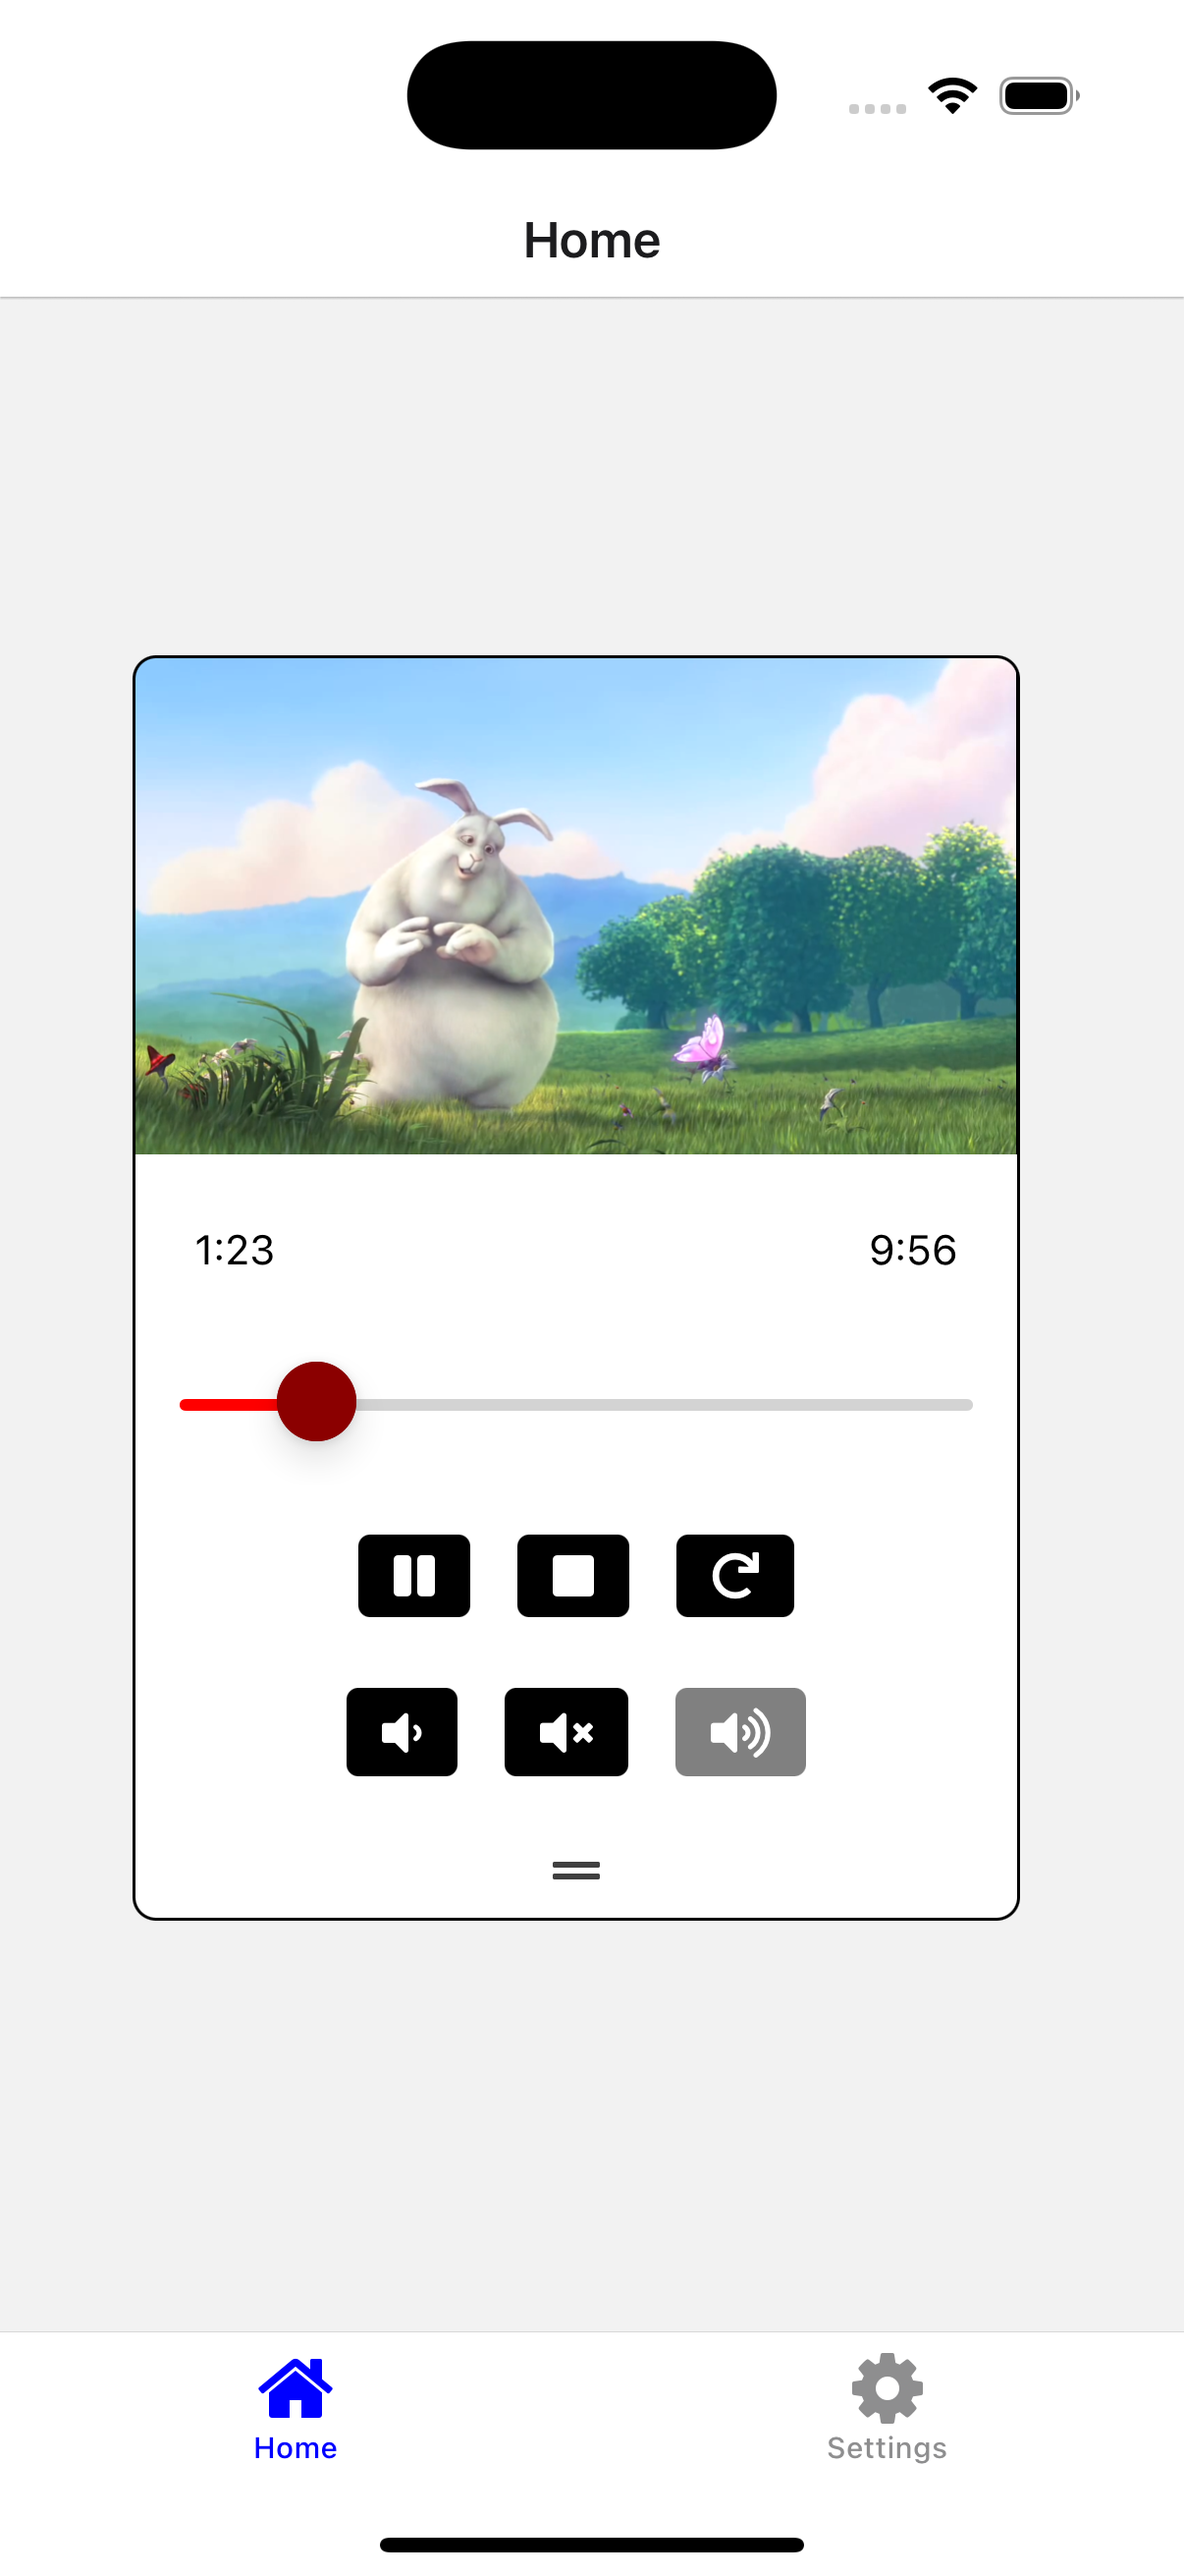
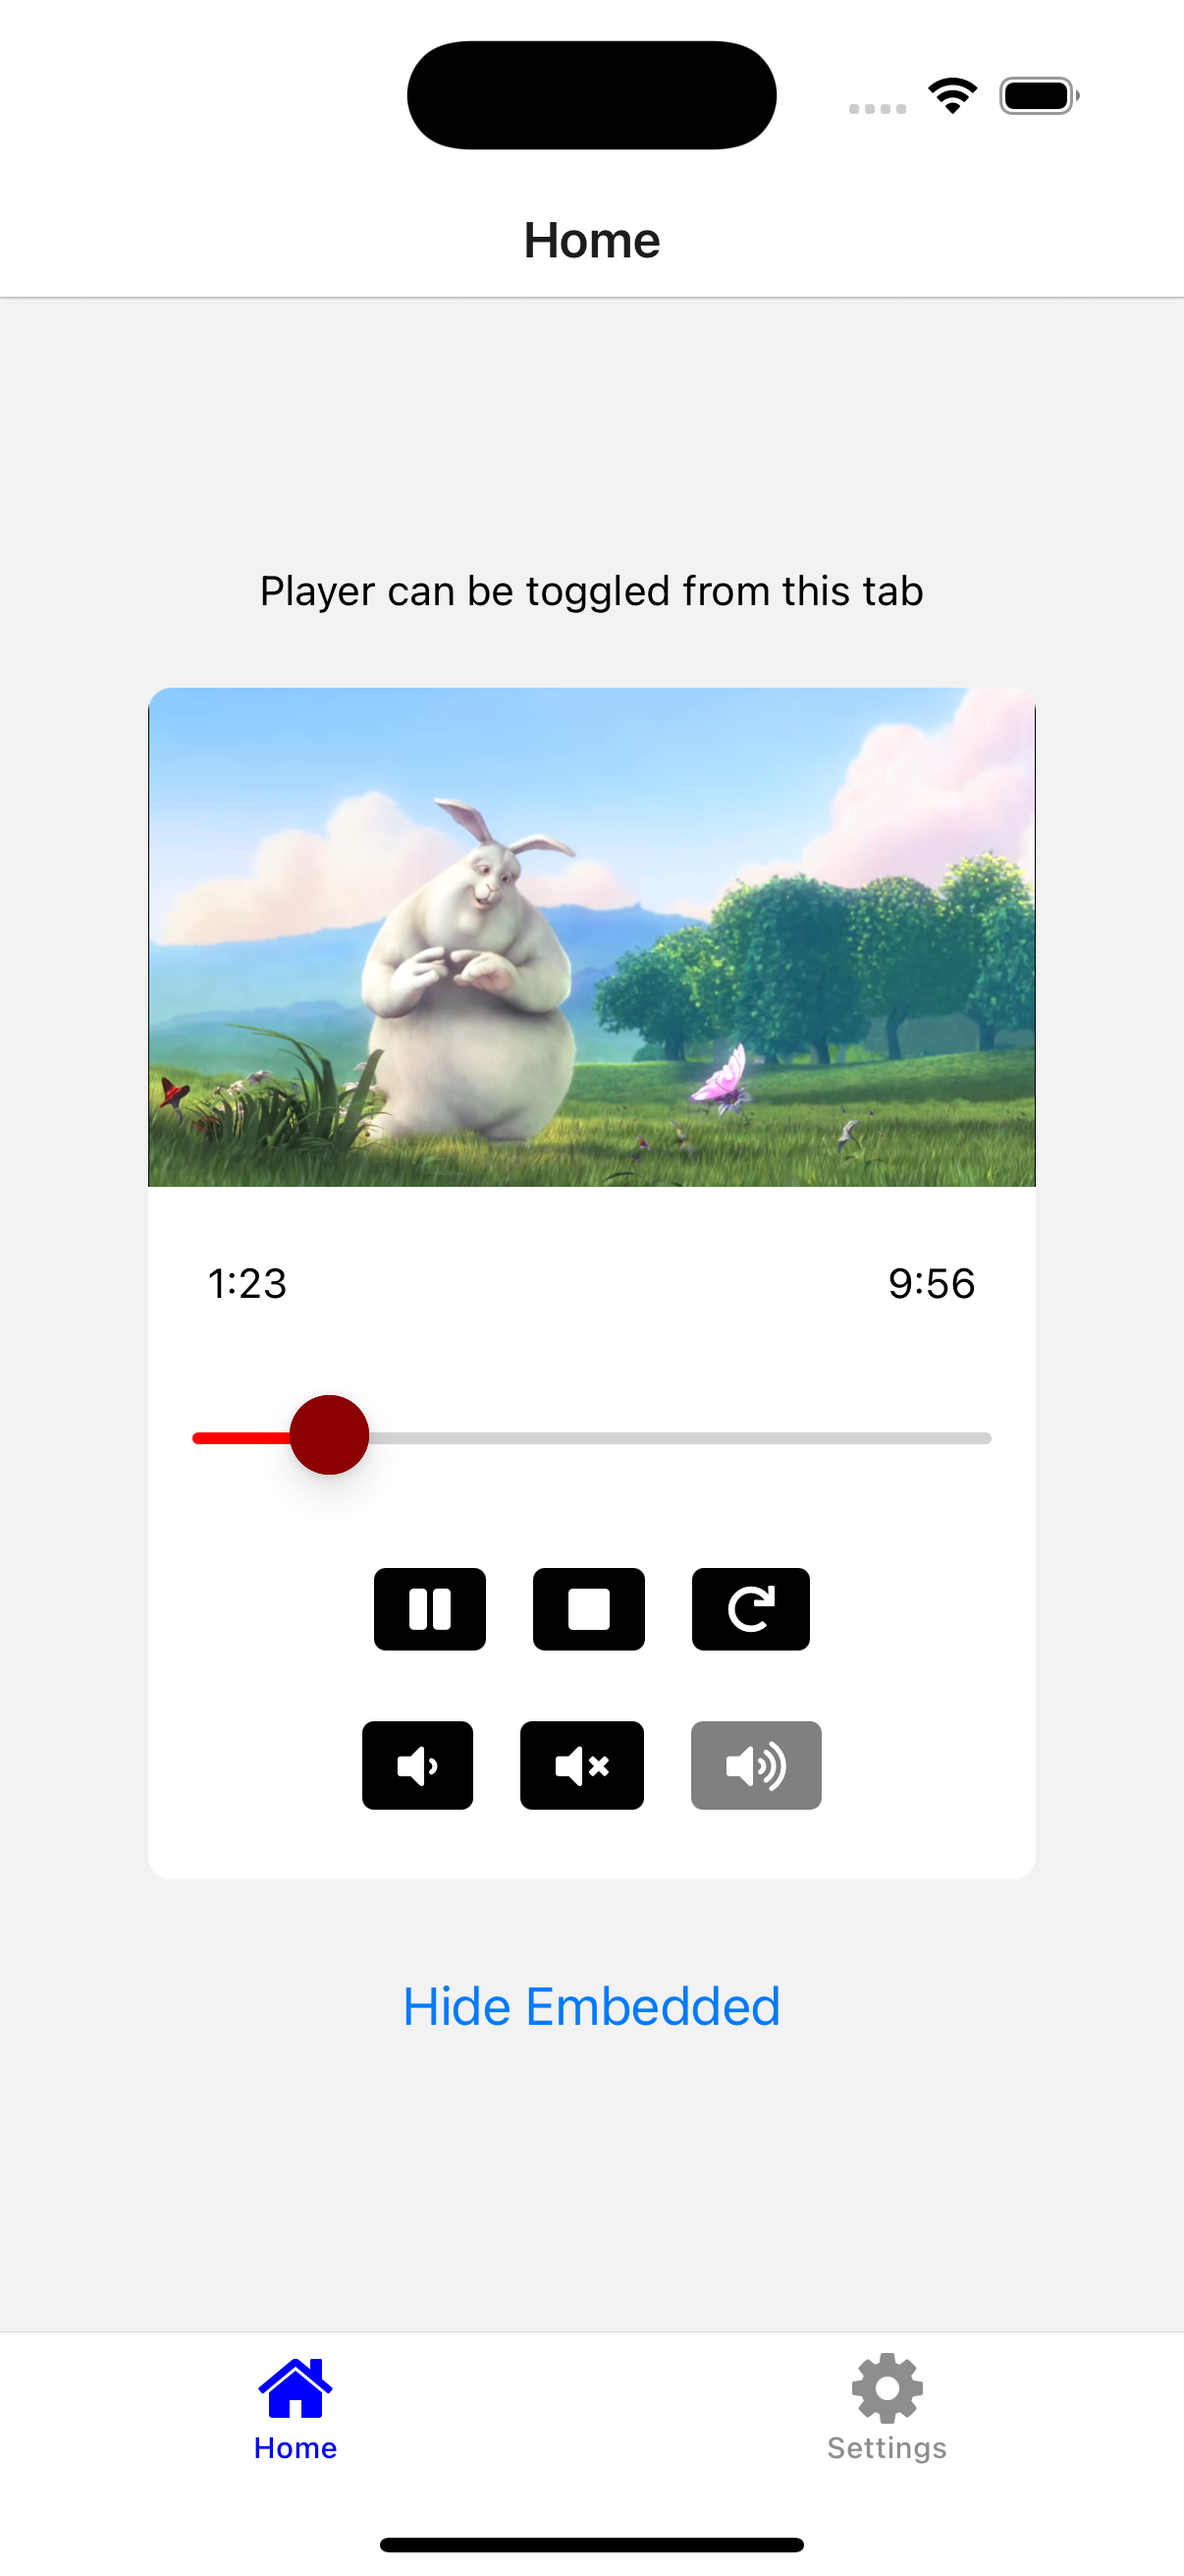
Update example app

Changed region(s): [[0.092, 0.2162, 0.8897, 0.7414], [0.3375, 0.7723, 0.6443, 0.8032]]

diff --git a/example/components/PlayerView.tsx b/example/components/PlayerView.tsx
@@ -25,8 +25,6 @@ import {
   View,
 } from "react-native";
 
-import { usePlayer } from "./PlayerProvider";
-
 function msToMinutesSeconds(duration: number) {
   const totalSeconds = Math.floor(duration / 1_000);
   const minutes = Math.floor(totalSeconds / 60);
@@ -51,7 +49,11 @@ const VOLUME_CHANGE_STEP = 10;
 
 type VolumeChangeType = "increase" | "decrease";
 
-const PlayerView = () => {
+interface PlayerViewProps {
+  floating?: boolean;
+}
+
+export const PlayerView = ({ floating = true }: PlayerViewProps) => {
   const [orientation, setOrientation] = useState<Orientation>(
     Orientation.UNKNOWN,
   );
@@ -71,8 +73,6 @@ const PlayerView = () => {
   const playerViewRef = useRef<LibVlcPlayerViewRef | null>(null);
   const bufferingTimeoutRef = useRef<number | null>(null);
 
-  const { show } = usePlayer();
-
   useEffect(() => {
     const listener = ({
       orientationInfo: { orientation },
@@ -91,12 +91,6 @@ const PlayerView = () => {
   useEffect(() => {
     generateThumbnail();
   }, []);
-
-  useEffect(() => {
-    if (!show) {
-      resetPlayerState();
-    }
-  }, [show]);
 
   const unlockOrientation = async () => await unlockAsync();
 
@@ -218,13 +212,12 @@ const PlayerView = () => {
     !isPlaying &&
     (position === MIN_POSITION_VALUE || isStopped || isBackgrounded);
 
-  if (!show) return null;
-
   return (
     <View
       style={{
         ...styles.player,
         flexDirection: isPortrait ? "column" : "row",
+        borderWidth: floating ? 1 : 0,
       }}
     >
       <View style={styles.video}>
@@ -312,13 +305,15 @@ const PlayerView = () => {
             disabled={volume === MAX_VOLUME_LEVEL}
           />
         </View>
-        <View style={styles.toolbar}>
-          <FontAwesome5
-            name="grip-lines"
-            size={16}
-            color="rgba(0, 0, 0, 0.75)"
-          />
-        </View>
+        {floating && (
+          <View style={styles.toolbar}>
+            <FontAwesome5
+              name="grip-lines"
+              size={16}
+              color="rgba(0, 0, 0, 0.75)"
+            />
+          </View>
+        )}
       </View>
     </View>
   );
@@ -359,7 +354,7 @@ const Control = ({
 const styles = StyleSheet.create({
   player: {
     width: "75%",
-    borderWidth: 1,
+    borderColor: "gray",
     borderRadius: 8,
     overflow: "hidden",
   },
@@ -395,5 +390,3 @@ const styles = StyleSheet.create({
     marginBottom: -16,
   },
 });
-
-export default PlayerView;

diff --git a/example/app/(tabs)/index.tsx b/example/app/(tabs)/index.tsx
@@ -1,16 +1,32 @@
-import { Text, StyleSheet, Button, SafeAreaView } from "react-native";
+import { useState } from "react";
+import { Text, StyleSheet, Button, SafeAreaView, View } from "react-native";
 
-import { usePlayer } from "../../components/PlayerProvider";
+import { useFloating } from "../../components/FloatingProvider";
+import { PlayerView } from "../../components/PlayerView";
 
 export default function HomeTab() {
-  const { show, toggle } = usePlayer();
+  const [show, setShow] = useState<boolean>(false);
+
+  const { open, toggle } = useFloating();
 
   return (
     <SafeAreaView style={styles.container}>
-      <Text style={{ marginBottom: 24 }}>
-        Media player can be toggled from this tab
-      </Text>
-      <Button title={`${!show ? "Show" : "Hide"} Player`} onPress={toggle} />
+      <Text>Player can be toggled from this tab</Text>
+      {show && !open && <PlayerView floating={false} />}
+      <View style={styles.buttons}>
+        {!show && (
+          <Button
+            title={`${!open ? "Open" : "Close"} Floating`}
+            onPress={toggle}
+          />
+        )}
+        {!open && (
+          <Button
+            title={`${!show ? "Show" : "Hide"} Embedded`}
+            onPress={() => setShow((prev) => !prev)}
+          />
+        )}
+      </View>
     </SafeAreaView>
   );
 }
@@ -20,5 +36,10 @@ const styles = StyleSheet.create({
     flex: 1,
     alignItems: "center",
     justifyContent: "center",
+    gap: 24,
+  },
+  buttons: {
+    flexDirection: "row",
+    gap: 16,
   },
 });

diff --git a/example/components/FloatingPlayer.tsx b/example/components/FloatingPlayer.tsx
@@ -1,3 +1,4 @@
+import { useEffect } from "react";
 import { Dimensions, StyleSheet } from "react-native";
 import { Gesture, GestureDetector } from "react-native-gesture-handler";
 import Animated, {
@@ -5,7 +6,8 @@ import Animated, {
   useSharedValue,
 } from "react-native-reanimated";
 
-import PlayerView from "./PlayerView";
+import { useFloating } from "./FloatingProvider";
+import { PlayerView } from "./PlayerView";
 
 function clamp(val: number, min: number, max: number) {
   return Math.min(Math.max(val, min), max);
@@ -17,7 +19,16 @@ const MIN_FINGER_DISTANCE = 1;
 const MAX_TRANSLATE_X = width / 2 - 50;
 const MAX_TRANSLATE_Y = height / 2 - 50;
 
-const FloatingPlayer = () => {
+export const FloatingPlayer = () => {
+  const { open } = useFloating();
+
+  useEffect(() => {
+    if (!open) {
+      translationX.value = 0;
+      translationY.value = 0;
+    }
+  }, [open]);
+
   const translationX = useSharedValue(0);
   const translationY = useSharedValue(0);
   const prevTranslationX = useSharedValue(0);
@@ -50,6 +61,8 @@ const FloatingPlayer = () => {
     })
     .runOnJS(true);
 
+  if (!open) return null;
+
   return (
     <GestureDetector gesture={pan}>
       <Animated.View
@@ -69,5 +82,3 @@ const FloatingPlayer = () => {
     </GestureDetector>
   );
 };
-
-export default FloatingPlayer;

diff --git a/example/components/FloatingProvider.tsx b/example/components/FloatingProvider.tsx
@@ -1,0 +1,40 @@
+import React, {
+  createContext,
+  useContext,
+  useState,
+  type ReactNode,
+} from "react";
+
+interface FloatingContextProps {
+  open: boolean;
+  toggle: () => void;
+}
+
+const FloatingContext = createContext<FloatingContextProps | null>(null);
+
+export const useFloating = () => {
+  const context = useContext(FloatingContext);
+
+  if (!context) {
+    throw new Error("useFloating must be used within a FloatingProvider");
+  }
+
+  return context;
+};
+
+export const FloatingProvider = ({ children }: { children: ReactNode }) => {
+  const [open, setOpen] = useState<boolean>(false);
+
+  const toggle = () => setOpen((prev) => !prev);
+
+  return (
+    <FloatingContext.Provider
+      value={{
+        open,
+        toggle,
+      }}
+    >
+      {children}
+    </FloatingContext.Provider>
+  );
+};

diff --git a/example/app/_layout.tsx b/example/app/_layout.tsx
@@ -1,18 +1,18 @@
 import { Stack } from "expo-router";
 import { GestureHandlerRootView } from "react-native-gesture-handler";
 
-import FloatingPlayer from "../components/FloatingPlayer";
-import { PlayerProvider } from "../components/PlayerProvider";
+import { FloatingPlayer } from "../components/FloatingPlayer";
+import { FloatingProvider } from "../components/FloatingProvider";
 
 export default function Layout() {
   return (
     <GestureHandlerRootView>
-      <PlayerProvider>
+      <FloatingProvider>
         <Stack>
           <Stack.Screen name="(tabs)" options={{ headerShown: false }} />
         </Stack>
         <FloatingPlayer />
-      </PlayerProvider>
+      </FloatingProvider>
     </GestureHandlerRootView>
   );
 }
